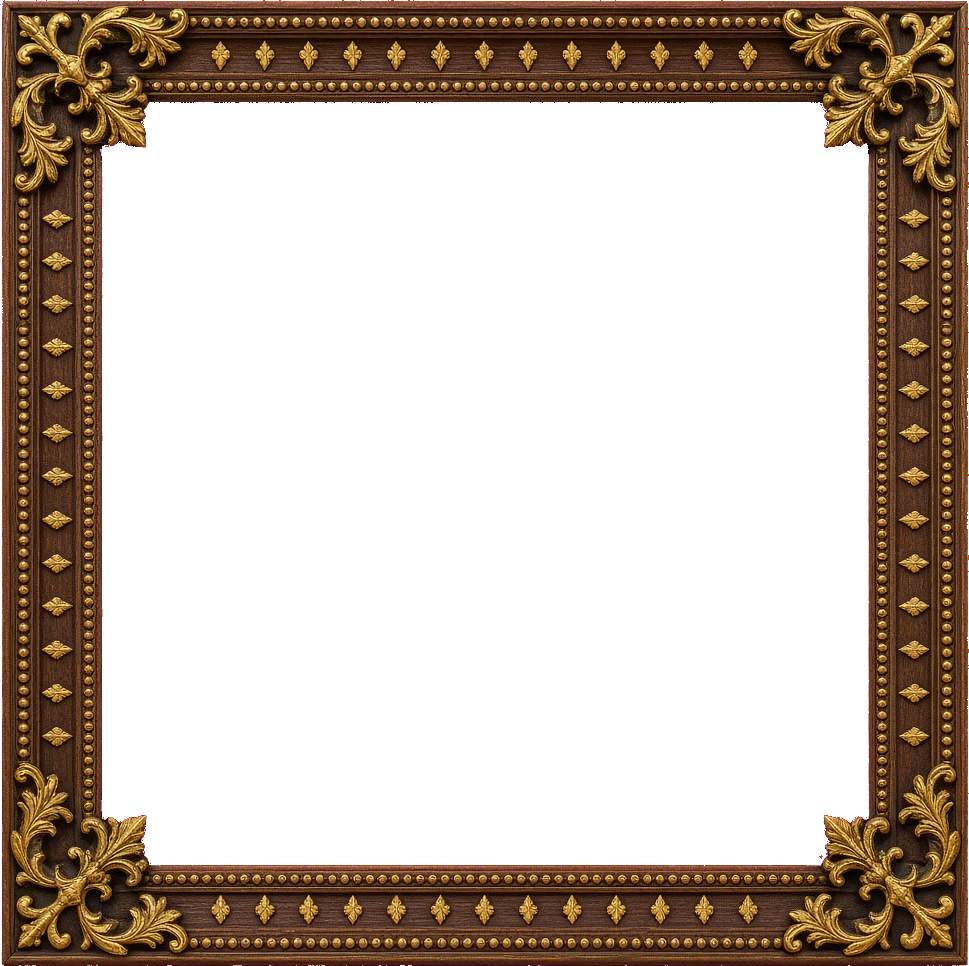
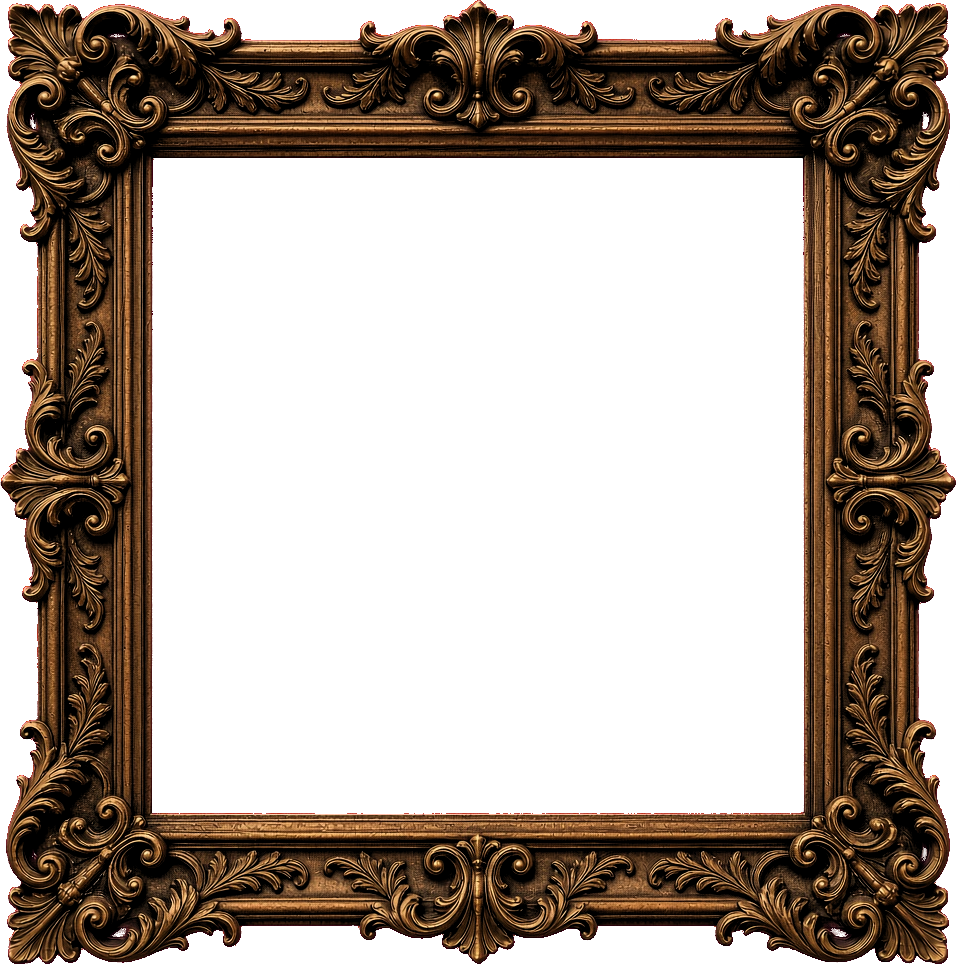
generic commit 2026-10-05 22:56:08

diff --git a/mnemonics/web/index.html b/mnemonics/web/index.html
@@ -521,8 +521,8 @@
         flex: 0 0 auto;
       }
       #overlay .overlay-image {
-        --palace-frame: clamp(18px, 3.4vh, 56px);
-        --palace-frame-out: calc(var(--palace-frame) * 0.52);
+        --palace-frame: clamp(22px, 4.8vh, 76px);
+        --palace-frame-out: calc(var(--palace-frame) * 0.93);
         flex: 0 0 auto;
         align-self: center;
         width: fit-content;
@@ -553,8 +553,8 @@
         border-style: solid;
         border-color: transparent;
         border-width: var(--palace-frame);
-        border-image-source: url("/assets/palace-frame.png");
-        border-image-slice: 196;
+        border-image-source: url("/assets/palace-frame.png?v=2");
+        border-image-slice: 168;
         border-image-width: var(--palace-frame);
         border-image-repeat: stretch;
         pointer-events: none;
@@ -725,7 +725,7 @@
         display: none !important;
       }
       #overlay.image-expanded .overlay-image {
-        --palace-frame: clamp(28px, 4.8vh, 80px);
+        --palace-frame: clamp(36px, 6.4vh, 108px);
         flex: 0 1 auto;
         width: fit-content;
         max-width: calc(100% - 2 * var(--palace-frame-out));
@@ -749,7 +749,7 @@
           overflow: auto;
         }
         #overlay .overlay-image {
-          --palace-frame: clamp(14px, 2.6vh, 32px);
+          --palace-frame: clamp(18px, 3.6vh, 44px);
           height: auto;
           max-height: none;
           min-height: 0;

diff --git a/mnemonics/web/dashboard.css b/mnemonics/web/dashboard.css
@@ -688,8 +688,8 @@ footer {
   box-sizing: border-box;
 }
 .overlay-image {
-  --palace-frame: clamp(18px, 3.4vh, 56px);
-  --palace-frame-out: calc(var(--palace-frame) * 0.52);
+  --palace-frame: clamp(22px, 4.8vh, 76px);
+  --palace-frame-out: calc(var(--palace-frame) * 0.93);
   background: transparent;
   border: none;
   border-radius: 0;
@@ -708,8 +708,8 @@ footer {
   border-style: solid;
   border-color: transparent;
   border-width: var(--palace-frame);
-  border-image-source: url("/assets/palace-frame.png");
-  border-image-slice: 196;
+  border-image-source: url("/assets/palace-frame.png?v=2");
+  border-image-slice: 168;
   border-image-width: var(--palace-frame);
   border-image-repeat: stretch;
   pointer-events: none;
@@ -737,7 +737,7 @@ footer {
 }
 @media (max-width: 900px) {
   .overlay-image {
-    --palace-frame: clamp(14px, 2.6vh, 32px);
+    --palace-frame: clamp(18px, 3.6vh, 44px);
   }
   .overlay-image img {
     max-height: calc(32vh - 2 * var(--palace-frame-out));
